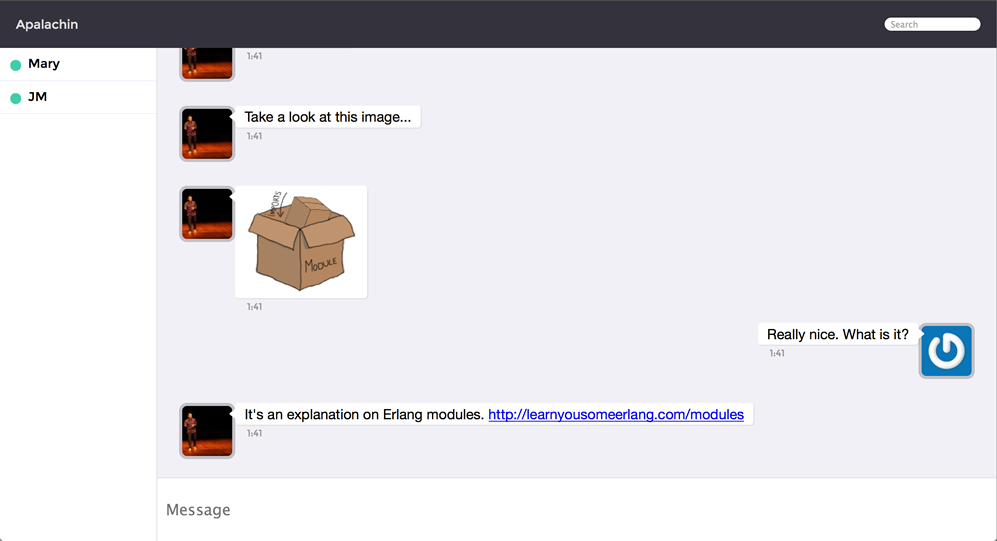
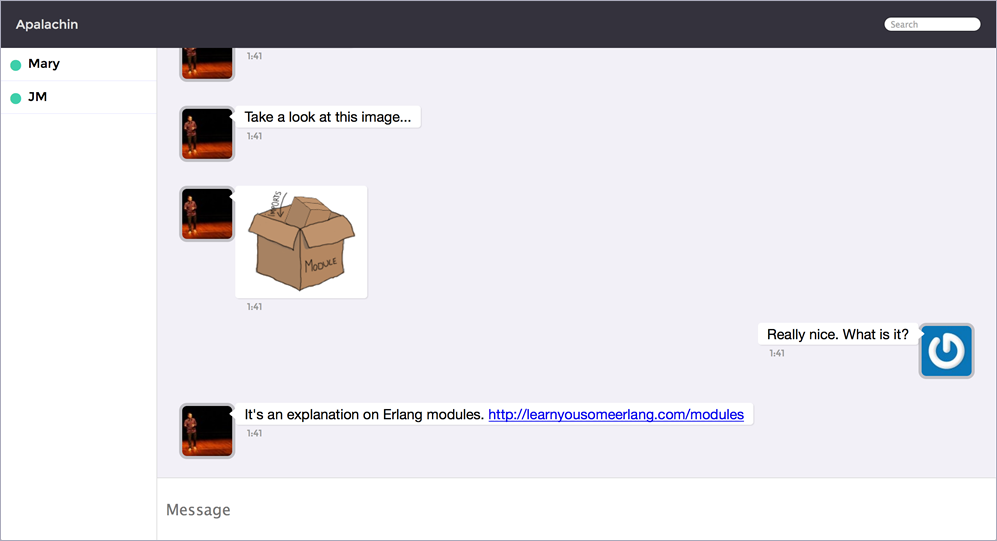
Add proper borders...

Changed region(s): [[0.995, 0.0, 1.0, 1.0], [0.0, 0.976, 0.0311, 1.0]]

diff --git a/README.md b/README.md
@@ -13,7 +13,7 @@ A [websockets](http://tools.ietf.org/html/rfc6455) team chat built with [Erlang'
 
 #### Look & feel
 
-<img alt="Apalachin look and feel" src="https://raw.github.com/joaomilho/apalachin/master/priv/static/img/shot.png" style="border: 1px solid #ccd;" />
+<img alt="Apalachin look and feel" src="https://raw.github.com/joaomilho/apalachin/master/priv/static/img/shot.png" />
 
 #### Install
 
